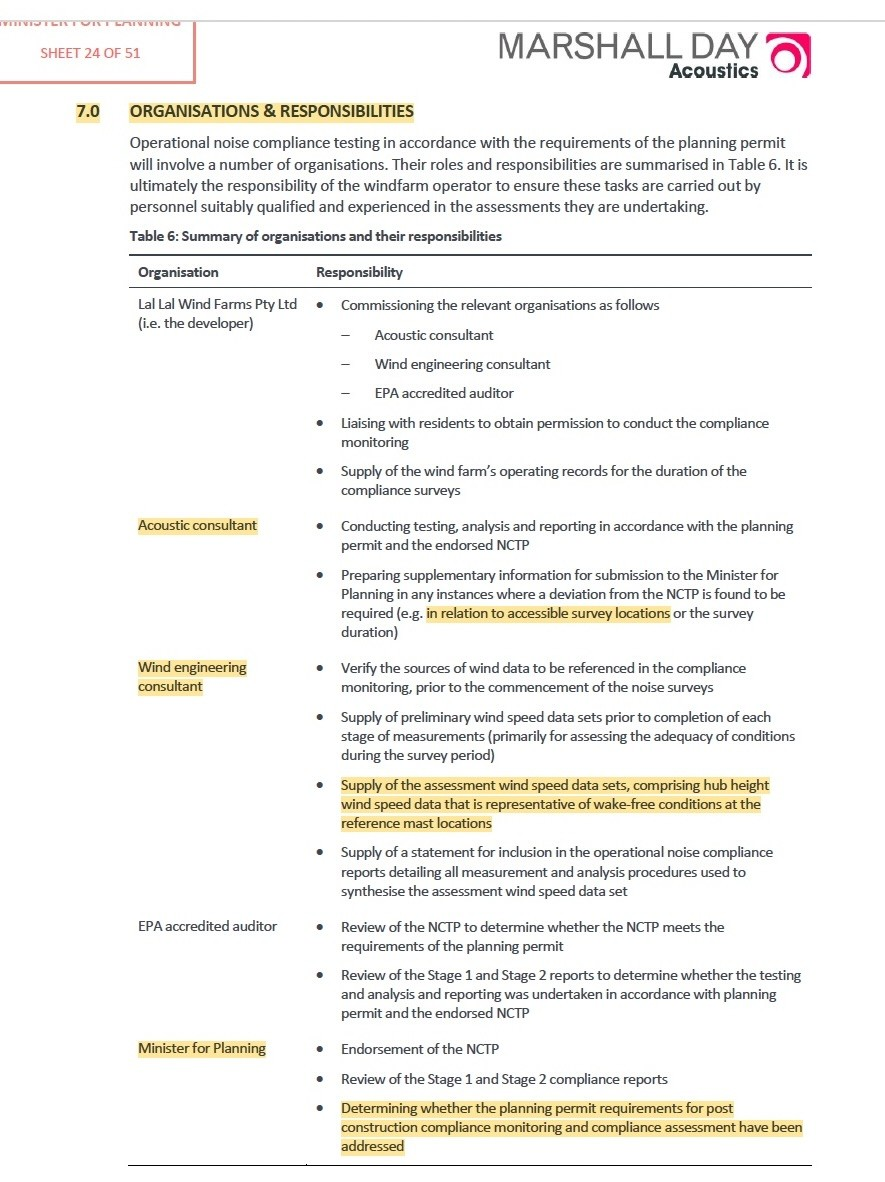
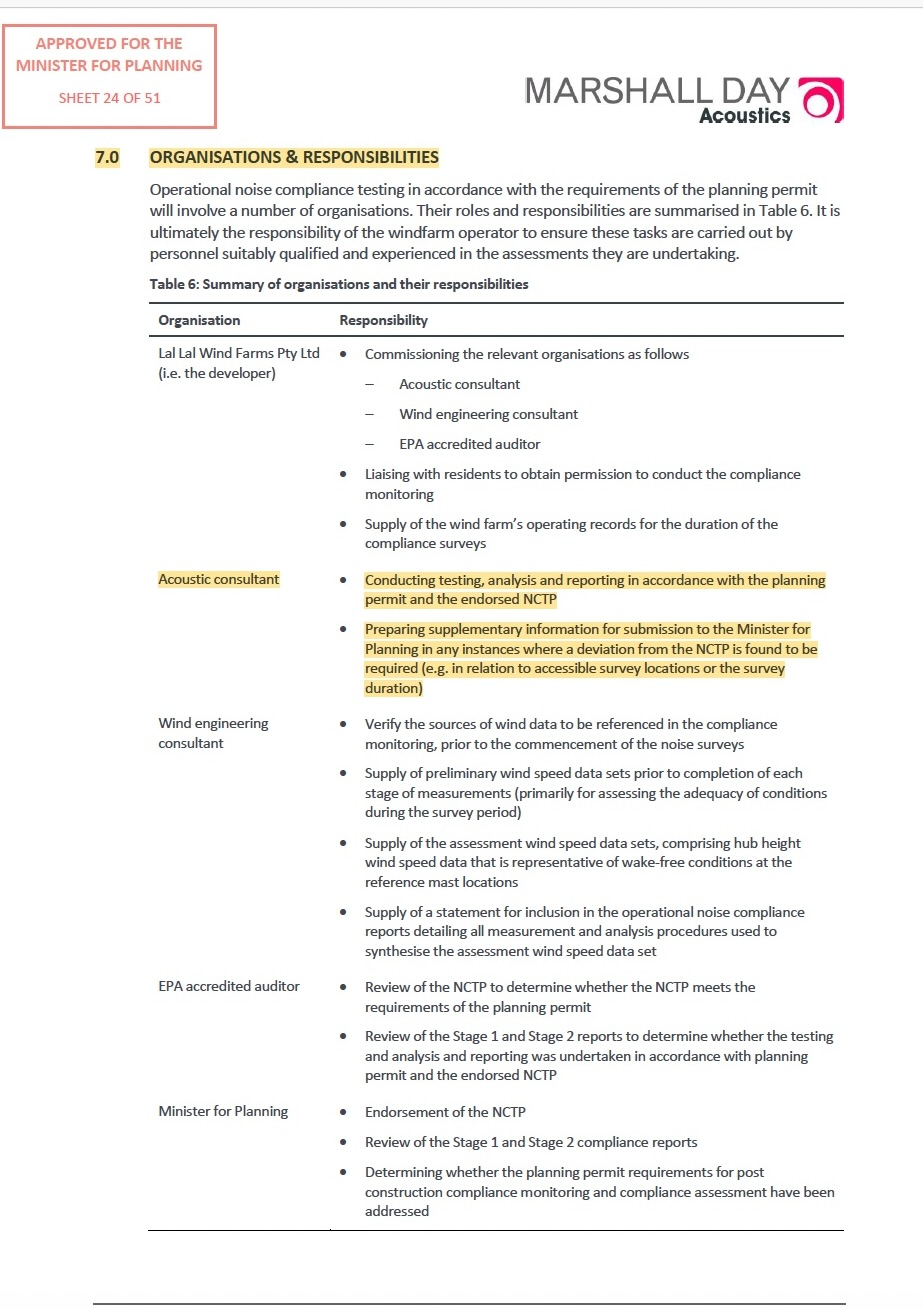
Restore NCTP responsibilities exhibit and emphasise full-operation statement  - replace the Section 7.0 organisations and responsibilities exhibit with the supplied image highlighting only the acoustic consultant responsibilities - preserve the existing Section 7.0 caption and DTP FOI CS019241 refer

diff --git a/commissioning-final-turbine.html b/commissioning-final-turbine.html
@@ -11,7 +11,7 @@
 <meta content="https://lallalwindfarmrecord.com.au/images/social-preview.jpg" property="og:image"/>
 <link href="images/favicon.png" rel="icon" type="image/png"/>
 <link href="style.css" rel="stylesheet"/>
-<link href="https://lallalwindfarmrecord.com.au/commissioning-final-turbine.html" rel="canonical"/><meta content="index, follow, max-image-preview:large" name="robots"/><meta content="https://lallalwindfarmrecord.com.au/commissioning-final-turbine.html" property="og:url"/><meta content="article" property="og:type"/><meta content="Lal Lal Wind Farm Record" property="og:site_name"/><meta content="summary_large_image" name="twitter:card"/><meta content="Commissioning of the Final Turbine | Lal Lal Wind Farm Record" name="twitter:title"/><meta content="A plain-English gateway to the mandatory documentary requirements that follow from the final-turbine commissioning milestone." name="twitter:description"/><meta content="https://lallalwindfarmrecord.com.au/images/social-preview.jpg" name="twitter:image"/><script data-seo-release="v7.7.12" type="application/ld+json">{"@context": "https://schema.org", "@type": "WebPage", "name": "Commissioning of the Final Turbine", "url": "https://lallalwindfarmrecord.com.au/commissioning-final-turbine.html", "description": "Documentary reconciliation of the planning-permit, endorsed-plan and monitoring obligations connected with commissioning of the final turbine at the Lal Lal Wind Farm.", "inLanguage": "en-AU", "isPartOf": {"@type": "WebSite", "name": "Lal Lal Wind Farm Record", "url": "https://lallalwindfarmrecord.com.au/"}, "publisher": {"@type": "Organization", "name": "LEWIS TROJAN HORSE PTY LTD", "url": "https://lallalwindfarmrecord.com.au/"}}</script><style>
+<link href="https://lallalwindfarmrecord.com.au/commissioning-final-turbine.html" rel="canonical"/><meta content="index, follow, max-image-preview:large" name="robots"/><meta content="https://lallalwindfarmrecord.com.au/commissioning-final-turbine.html" property="og:url"/><meta content="article" property="og:type"/><meta content="Lal Lal Wind Farm Record" property="og:site_name"/><meta content="summary_large_image" name="twitter:card"/><meta content="Commissioning of the Final Turbine | Lal Lal Wind Farm Record" name="twitter:title"/><meta content="A plain-English gateway to the mandatory documentary requirements that follow from the final-turbine commissioning milestone." name="twitter:description"/><meta content="https://lallalwindfarmrecord.com.au/images/social-preview.jpg" name="twitter:image"/><script data-seo-release="v7.7.13" type="application/ld+json">{"@context": "https://schema.org", "@type": "WebPage", "name": "Commissioning of the Final Turbine", "url": "https://lallalwindfarmrecord.com.au/commissioning-final-turbine.html", "description": "Documentary reconciliation of the planning-permit, endorsed-plan and monitoring obligations connected with commissioning of the final turbine at the Lal Lal Wind Farm.", "inLanguage": "en-AU", "isPartOf": {"@type": "WebSite", "name": "Lal Lal Wind Farm Record", "url": "https://lallalwindfarmrecord.com.au/"}, "publisher": {"@type": "Organization", "name": "LEWIS TROJAN HORSE PTY LTD", "url": "https://lallalwindfarmrecord.com.au/"}}</script><style>
 .commissioning-reporting-comparison{margin-top:1.5rem;}
 .commissioning-reporting-comparison img{width:100%;height:auto;display:block;}
 .trustee-enquiry-record{margin-top:1.5rem;}
@@ -81,7 +81,7 @@
 <div class="panel documentary-context"><div class="eyebrow">Earlier FOI records — K15aa background report</div><p><strong>EPA FOI-100-2025.</strong> In the Beneficiary's historical EPA FOI request, the Lal Lal Wind Farm Compliance Baseline Monitoring Report 640.11872-R01 v1.1 dated February 2021 was expressly requested. EPA's decision identified nine responsive documents, but the scheduled documents did not include that foundational K15aa report, and the decision did not separately address whether the report was held or why it was not provided.</p><p><strong>DTP FOI CS015467.</strong> The Beneficiary also requested the date on which the SLR Lal Lal Wind Farm Compliance Baseline Noise Monitoring Report 640.11872-R01 dated February 2021 was submitted to the Department, Minister or Responsible Authority. In its decision dated 1 October 2024, the Department of Transport and Planning advised that extensive searches located no information relevant to the request and that it appeared no relevant documents had been submitted to the Department.</p></div><div class="commissioning-exhibit-group" id="monitoring-exhibits"><h3>NCTP post-construction monitoring stages</h3><p class="documentary-context">The NCTP uses commissioning of the final turbine as the trigger for both mandatory post-construction monitoring stages. The disclosed Elaine and Yendon completion dates are preserved separately.</p><div class="grid-3 documentary-gallery">
 <figure class="document-figure"><a href="documents/commissioning/Endorsed-Noise-Compliance-Testing-Plan-March-2018.pdf" rel="noopener" target="_blank"><img alt="NCTP mandatory post-construction monitoring stages linked to commissioning of the final turbine" loading="lazy" src="images/commissioning/nctp-monitoring-requirements.jpg"/></a><figcaption><strong>Noise Compliance Testing Plan (NCTP) — Mandatory post-construction monitoring stages.</strong> The endorsed NCTP provides that post-construction monitoring <strong>shall</strong> be undertaken in two stages. The first stage <strong>shall</strong> commence within two months following commissioning of the last turbine, and the second stage <strong>shall</strong> commence between 10 and 12 months following commissioning of the last turbine. The monitoring pathway should be read together with the <a href="glossary.html#background-sound">NZS 6808:2010 definition of background sound</a>.</figcaption></figure>
 <figure class="document-figure"><a href="documents/commissioning/Endorsed-Noise-Compliance-Testing-Plan-March-2018.pdf" rel="noopener" target="_blank"><img alt="NCTP section 7 organisations and responsibilities, including supplementary information for deviations" loading="lazy" src="images/commissioning/nctp-organisations-responsibilities.jpg"/></a><figcaption><strong>Noise Compliance Testing Plan (NCTP) — Section 7.0: Organisations and responsibilities.</strong> The endorsed NCTP assigns responsibilities for compliance testing, analysis, reporting and supplementary information to the operator, acoustic consultant, wind engineering consultant, EPA-accredited auditor and Minister for Planning. The highlighted acoustic-consultant responsibilities include preparing supplementary information for submission to the Minister where a deviation from the NCTP is required. <strong>Related administrative record:</strong> DTP FOI CS019241 concerns the asserted revision, amendment and endorsement pathway for the NCTP.</figcaption></figure>
-<figure class="document-figure"><a href="images/commissioning/community-bulletin-march-2021-post-construction-monitoring.jpg" rel="noopener" target="_blank"><img alt="Lal Lal Wind Farms Project Update March 2021 announcing post-construction noise monitoring after the wind farm became fully operational" loading="lazy" src="images/commissioning/community-bulletin-march-2021-post-construction-monitoring.jpg"/></a><figcaption><strong>Lal Lal Wind Farms Project Update — March 2021.</strong> The operator advised that post-construction noise monitoring would commence in March 2021 “now that Lal Lal Wind Farms is fully operational”. The bulletin stated that the first noise compliance test would occur at the beginning of full operations and that a final test would follow after 12 months of operation. This public statement corresponds with the endorsed NCTP monitoring pathway and Planning Permit Condition 25(c), which requires a final compliance report after a 12-month period following full operation of the facility.</figcaption></figure>
+<figure class="document-figure"><a href="images/commissioning/community-bulletin-march-2021-post-construction-monitoring.jpg" rel="noopener" target="_blank"><img alt="Lal Lal Wind Farms Project Update March 2021 announcing post-construction noise monitoring after the wind farm became fully operational" loading="lazy" src="images/commissioning/community-bulletin-march-2021-post-construction-monitoring.jpg"/></a><figcaption><strong>Lal Lal Wind Farms Project Update — March 2021.</strong> The operator advised that post-construction noise monitoring would commence in March 2021 <strong>“now that Lal Lal Wind Farms is fully operational”</strong>. The bulletin stated that the first noise compliance test would occur at the beginning of full operations and that a final test would follow after 12 months of operation. This public statement corresponds with the endorsed NCTP monitoring pathway and Planning Permit Condition 25(c), which requires a final compliance report after a 12-month period following full operation of the facility.</figcaption></figure>
 <figure class="document-figure"><a href="documents/commissioning/LLWF-Council-Construction-and-Commissioning.pdf" rel="noopener" target="_blank"><img alt="Monitoring periods and report dates table part 1" loading="lazy" src="images/commissioning/stage-monitoring-periods-table-1.jpg"/></a><figcaption><strong>Monitoring periods table — part 1.</strong> Elaine Stage 1 monitoring was completed on 13 May 2021.</figcaption></figure>
 <figure class="document-figure"><a href="documents/commissioning/LLWF-Council-Construction-and-Commissioning.pdf" rel="noopener" target="_blank"><img alt="Monitoring periods and report dates table part 2" loading="lazy" src="images/commissioning/stage-monitoring-periods-table-2.jpg"/></a><figcaption><strong>Monitoring periods table — part 2.</strong> Yendon Stage 1 and the separate Stage 2 monitoring periods are preserved from their source reports.</figcaption></figure>
 <figure class="document-figure"><a href="documents/commissioning/LLWF-Council-Construction-and-Commissioning.pdf" rel="noopener" target="_blank"><img alt="Monitoring periods and report dates table part 3" loading="lazy" src="images/commissioning/stage-monitoring-periods-table-3.jpg"/></a><figcaption><strong>Monitoring periods table — part 3.</strong> Elaine Stage 2 was completed on 1 June 2023 and Yendon Stage 2 on 19 January 2024; both dates remain separately attributable.</figcaption></figure>
@@ -130,7 +130,7 @@
 <h4>Contact</h4>
 <a href="contact.html">Trustee Contact</a>
 <a href="mailto:officeexecutorowenrobertlewis@gmail.com">officeexecutorowenrobertlewis@gmail.com</a>
-<p class="small footer-note">Record Version 7.7.12<br/>25 July 2026</p>
+<p class="small footer-note">Record Version 7.7.13<br/>25 July 2026</p>
 </div>
 </div>
 <div class="container fineprint">© 2026 LEWIS TROJAN HORSE PTY LTD. All rights reserved. Publication preserves documentary chronology and version history; it does not alter the legal status of any document.</div>
